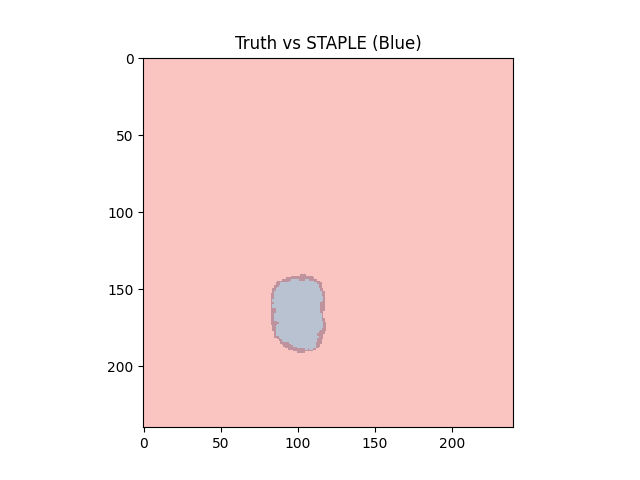
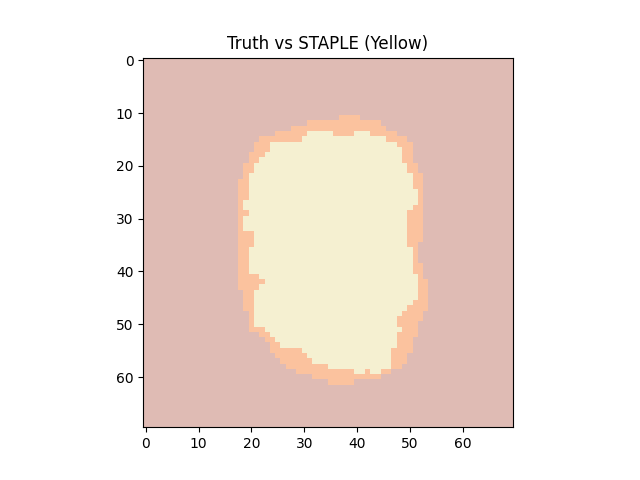
Zoom in for mask overlay images

diff --git a/show_masks.py b/show_masks.py
@@ -53,8 +53,8 @@ staple_output_sitk = sitk.STAPLE(final_img_stack, 1.0)
 staple_output_mask = sitk.GetArrayFromImage(staple_output_sitk)
 staple_output_mask = 1.0 * (staple_output_mask > 0.5)
 
-plt.imshow(ground_truth_mask[6,:,:], cmap='Pastel1', interpolation='none')
-plt.imshow(voting_output_mask[6,:,:], cmap='Blues', interpolation='none', alpha=0.25)
-plt.imshow(staple_output_mask[6,:,:], cmap='Set3', interpolation='none', alpha=0.25)
+plt.imshow(ground_truth_mask[6,130:200,65:135], cmap='Pastel1', interpolation='none')
+plt.imshow(voting_output_mask[6,130:200,65:135], cmap='Blues', interpolation='none', alpha=0.25)
+plt.imshow(staple_output_mask[6,130:200,65:135], cmap='Set3', interpolation='none', alpha=0.25)
 plt.title("Truth vs Majority Vote (Blue) vs STAPLE (Yellow)")
 plt.show()
